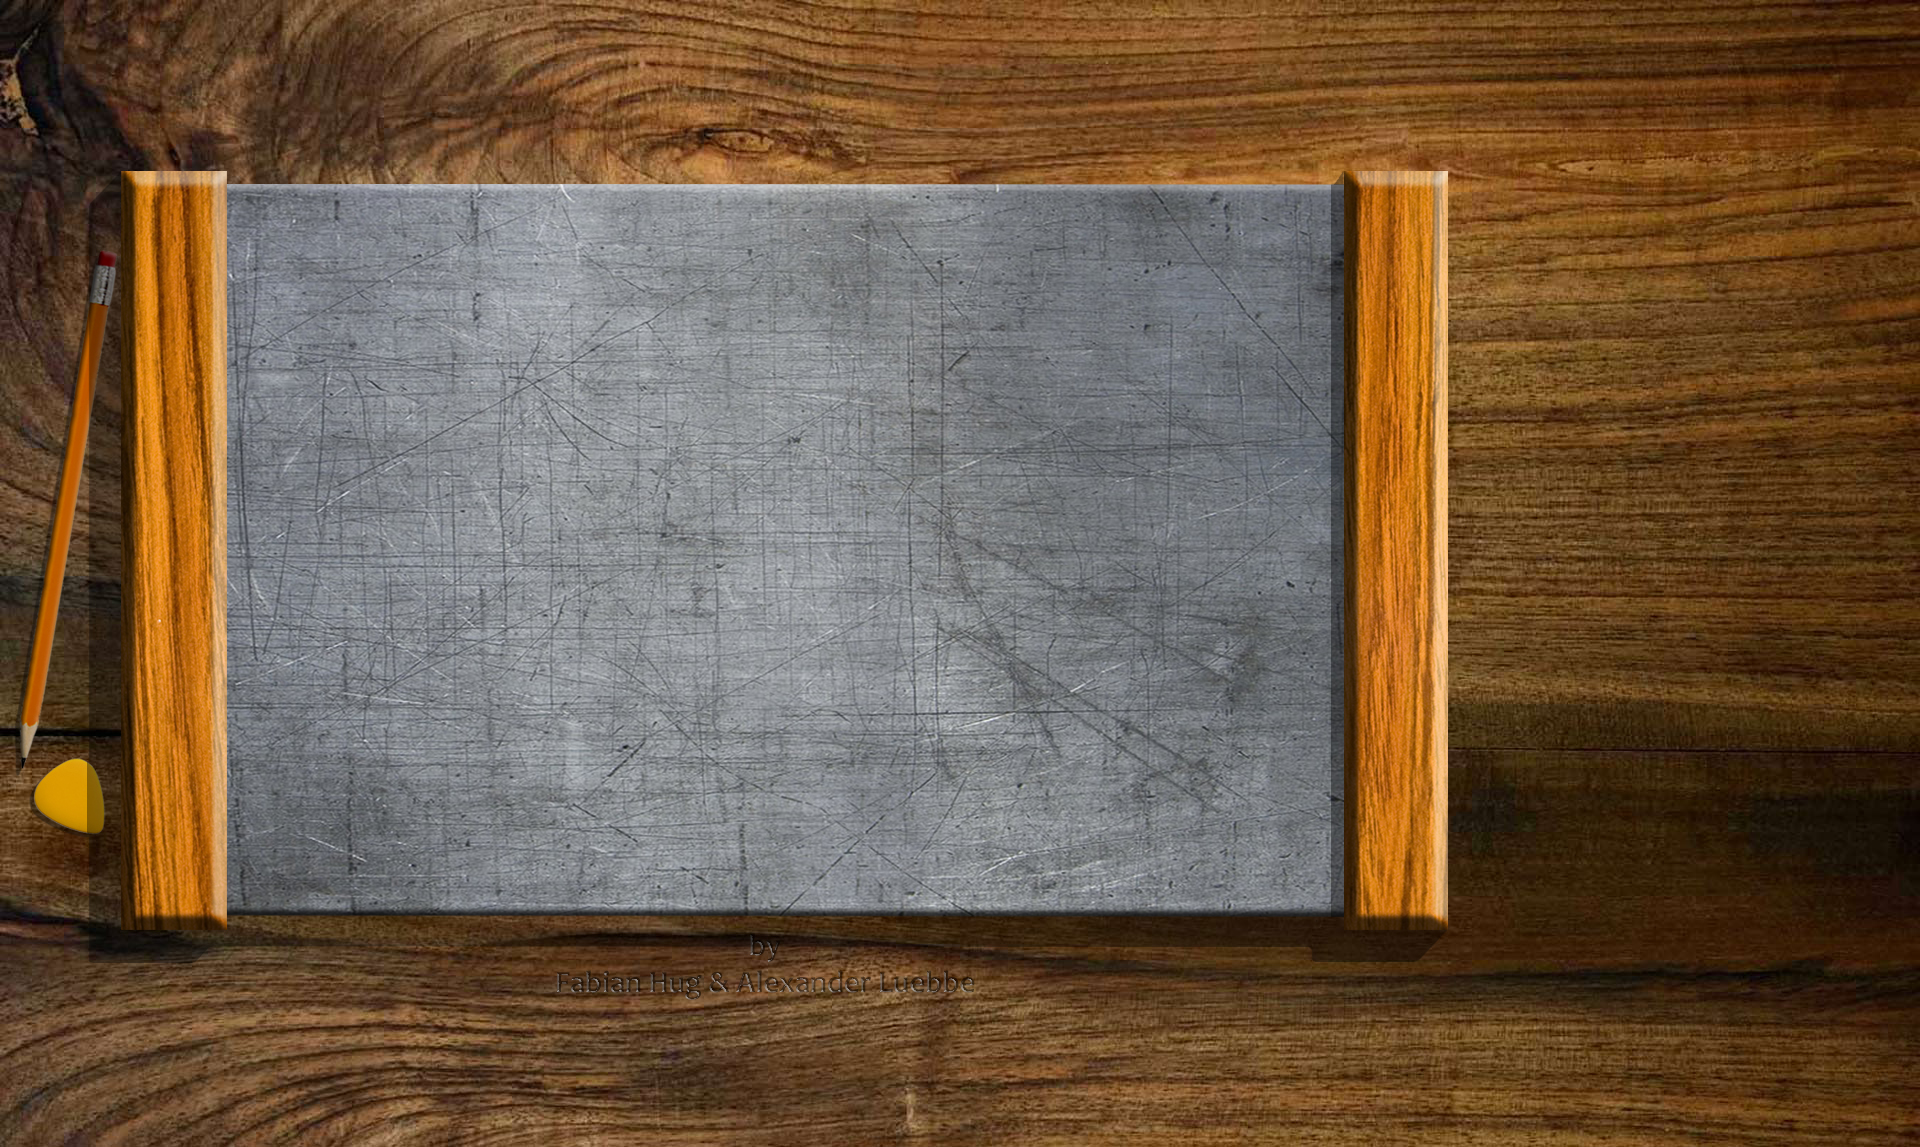
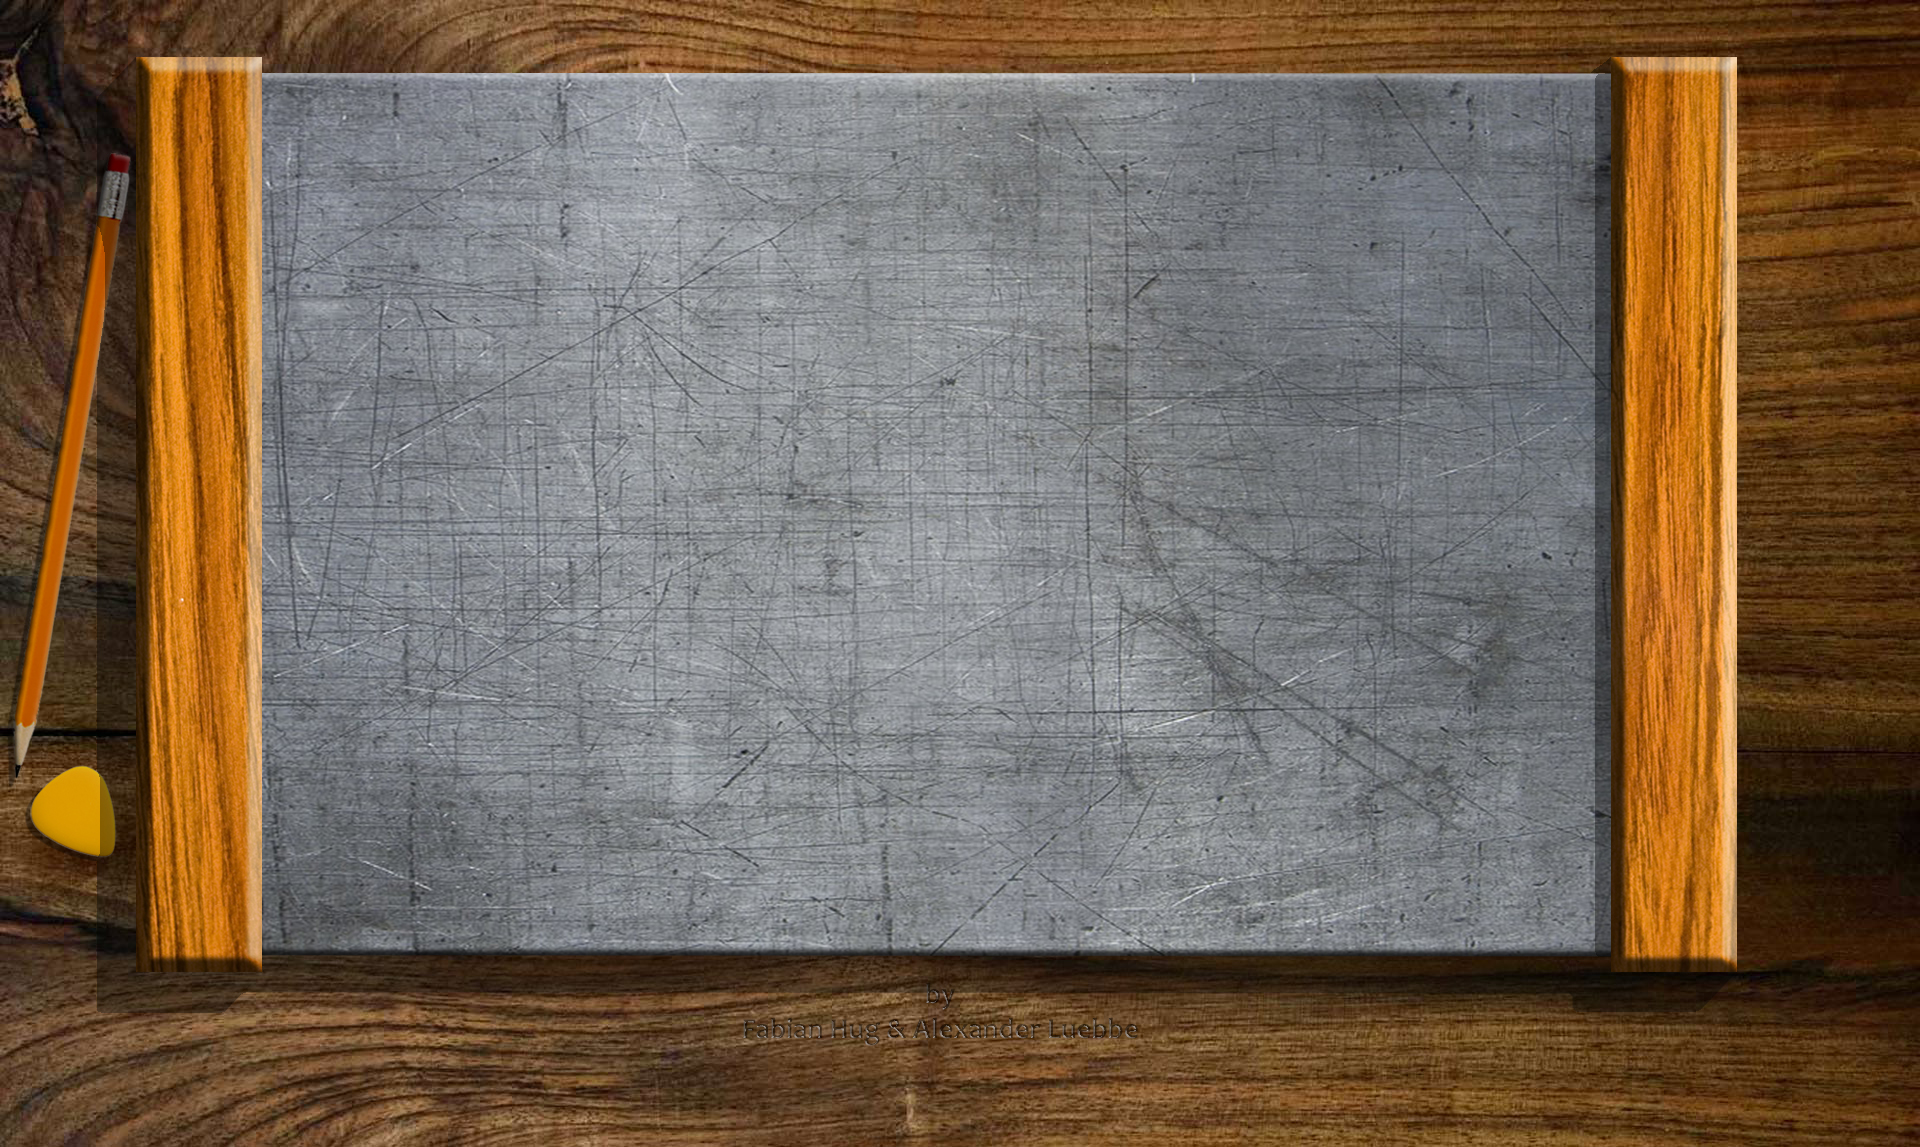
background änderungen css

diff --git a/css/screen.css b/css/screen.css
@@ -1,6 +1,11 @@
+body, html{
+  min-height: 100%;
+}
+
 body {
   background: url("../images/background1.jpg");
-  background-size: 100%;
+  background-size: cover;
+  background-repeat: no-repeat;
 }
 
 /*
